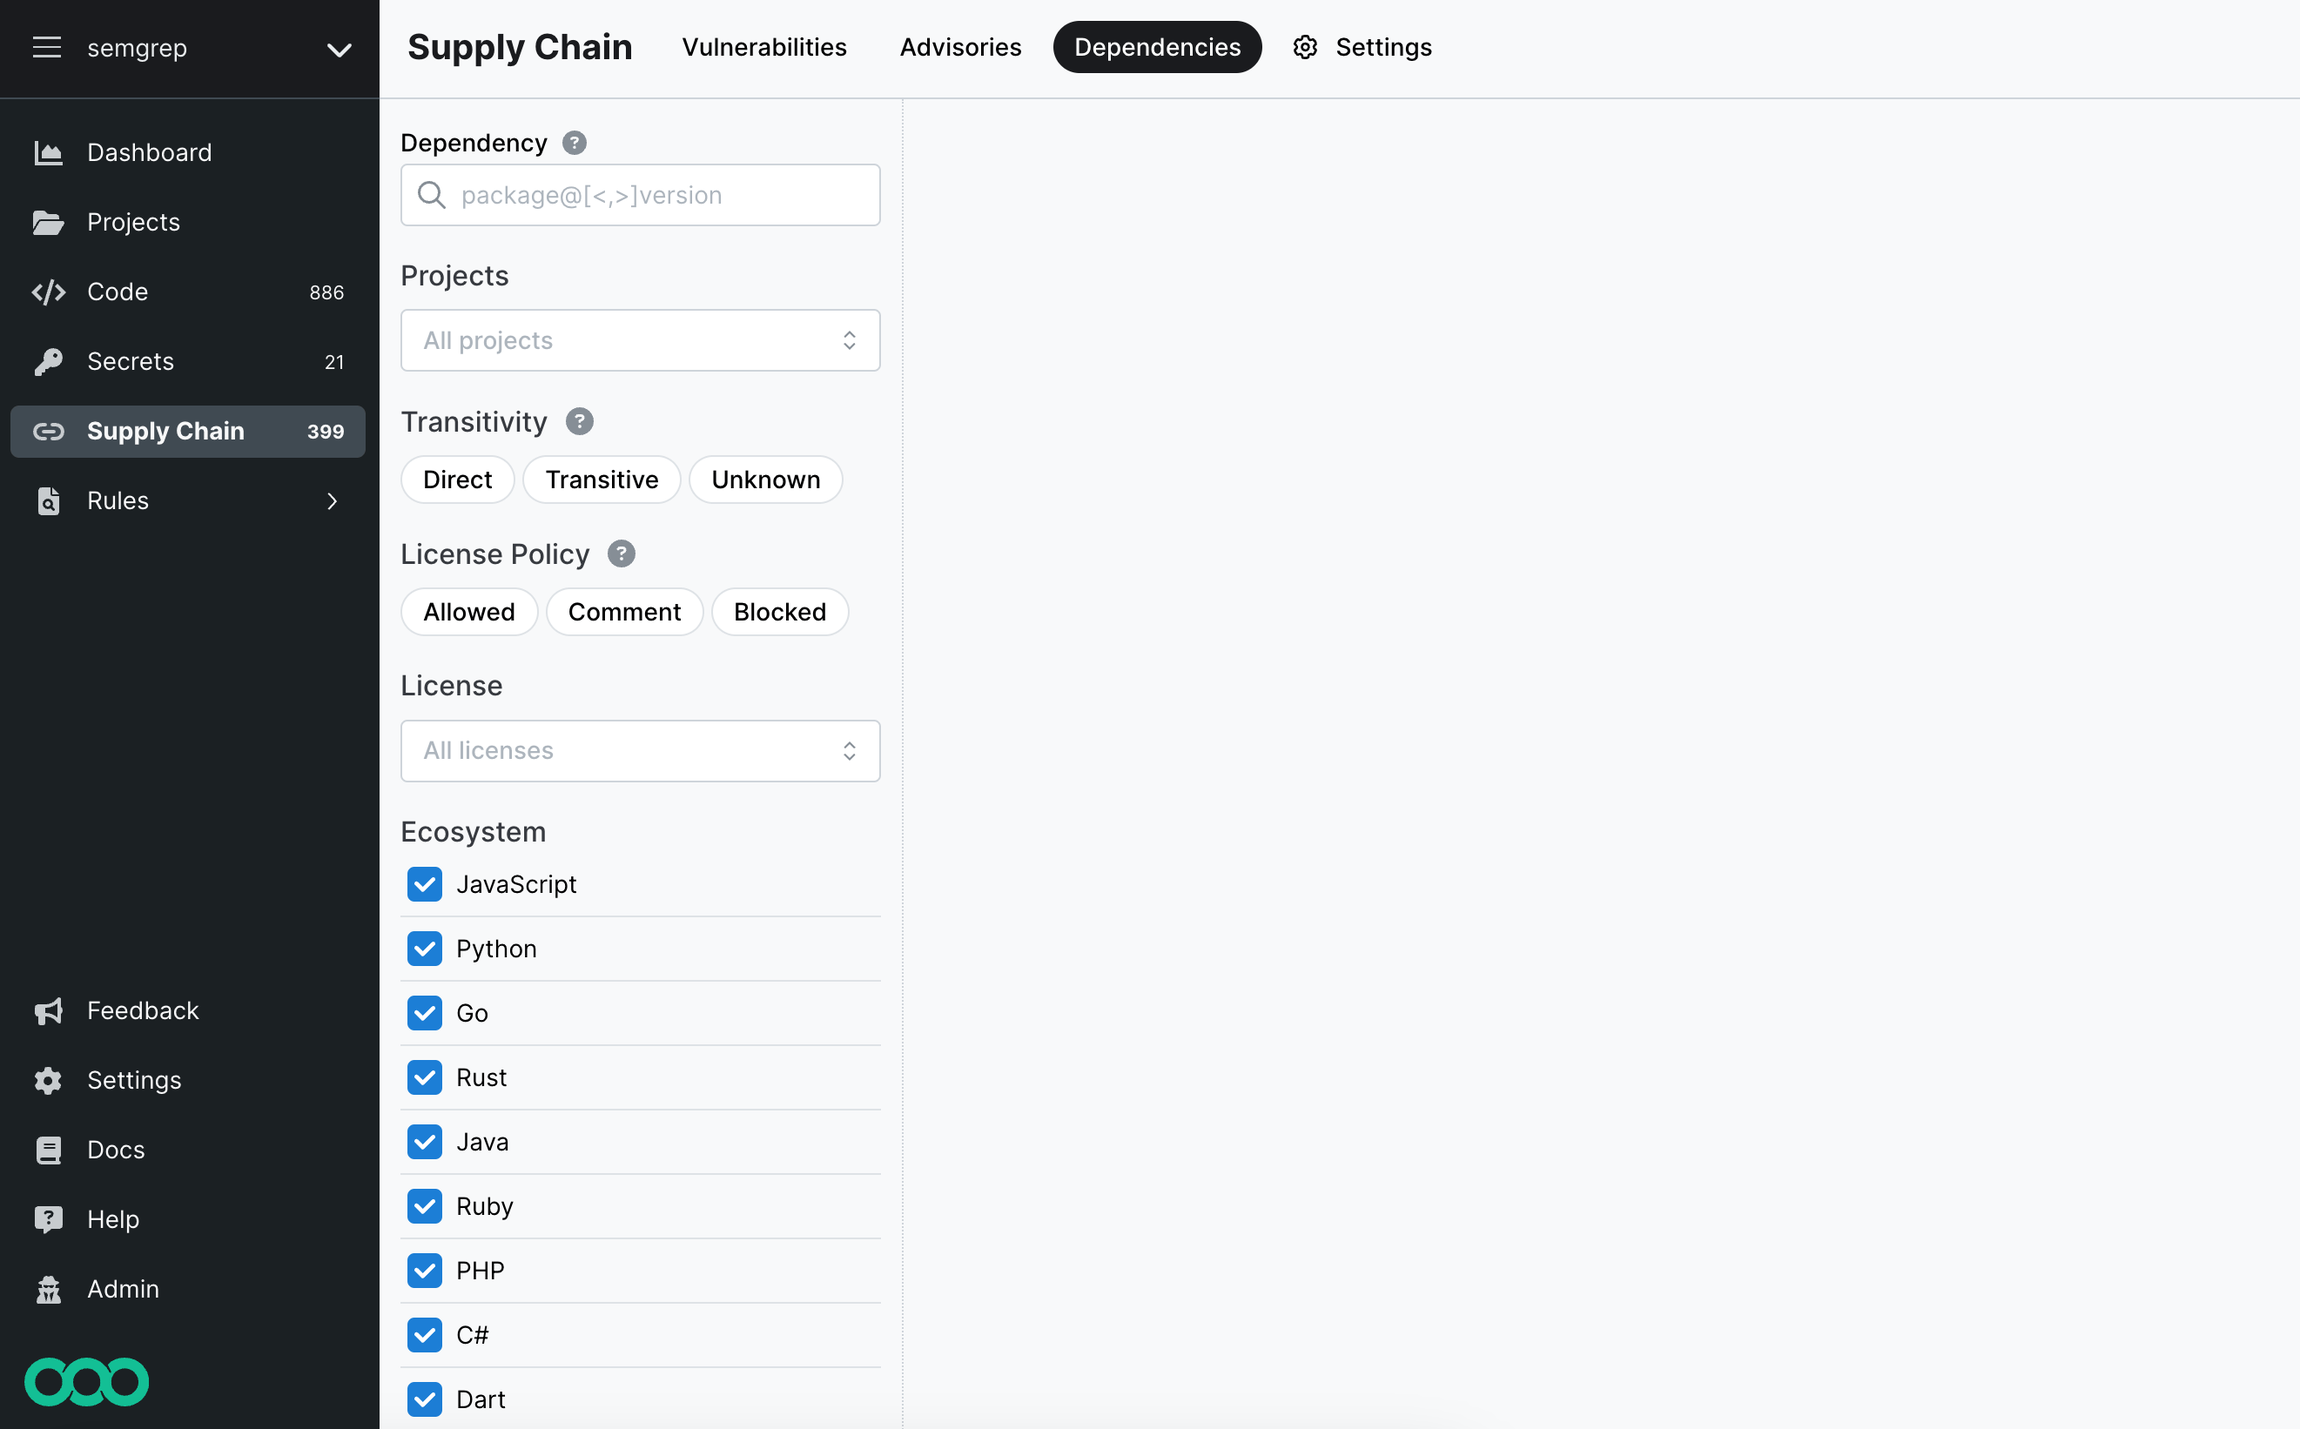
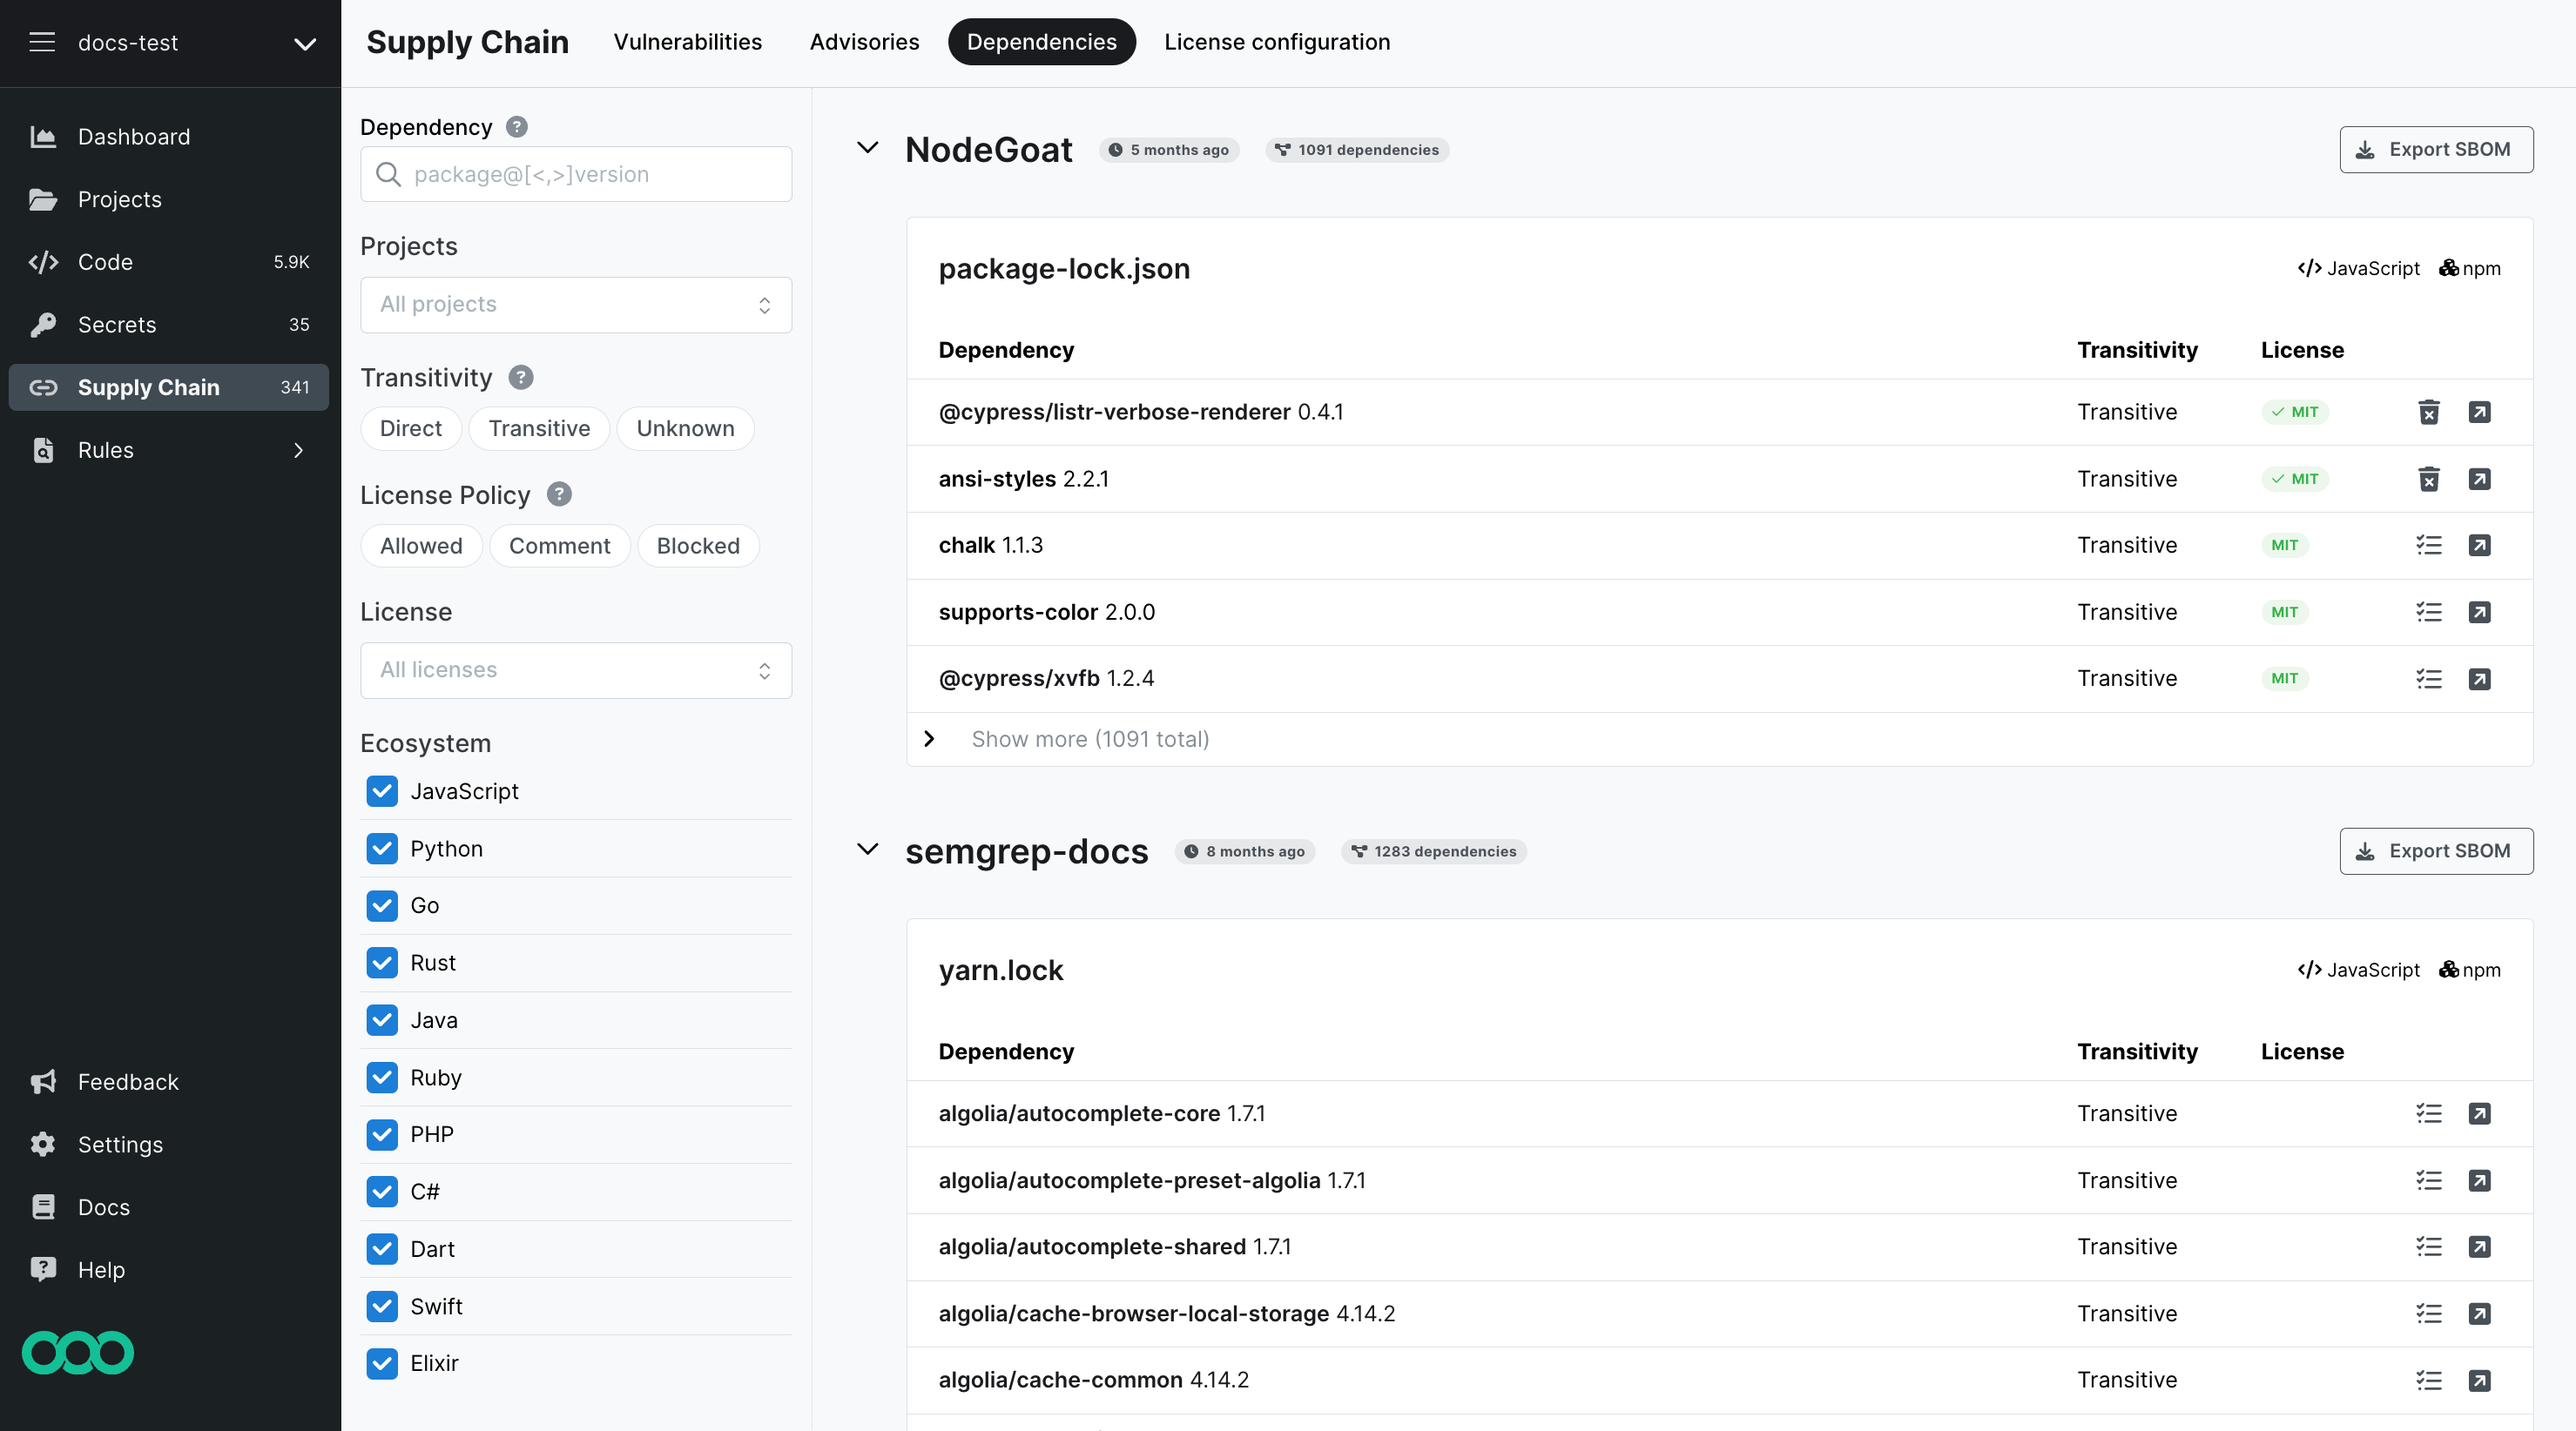
update SSC docs, part 2

diff --git a/docs/semgrep-supply-chain/dependency-search.md b/docs/semgrep-supply-chain/dependency-search.md
@@ -32,7 +32,7 @@ To search through your dependencies:
   ![Semgrep Supply Chain Settings tab](/img/sc-settings.png#md-width) *Figure*. The Semgrep Supply Chain Settings tab.
 1. Click <i class="fa-solid fa-toggle-large-on"></i> **Dependency search** if it is not already enabled.
 2. Navigate to **Supply Chain > Dependencies**.
-  ![Semgrep Supply Chain Dependencies tab](/img/sc-dependencies.png#md-width) *Figure*. The Semgrep Supply Chain Dependencies tab.
+  ![Semgrep Supply Chain Dependencies tab](/img/SSC-DepSearch.png#md-width) *Figure*. The Semgrep Supply Chain Dependencies tab.
 1. Type the name of the dependency you are searching for.
 2. Optional: Apply filters as necessary for your search.
 
@@ -43,8 +43,10 @@ Search for ranges of supported versions with the `>` or `<` operators following 
 Dependency search provides the following filters, which correspond to the data points displayed by Semgrep about each dependency:
 
 <dl>
+<dt>Dependency</dt>
+<dd>The name and version of the dependency</dd>
 <dt>Projects</dt>
-<dd></dd>
+<dd>The projects where the dependency can be found.</dd>
 <dt>Transitivity</dt>
 <dd>The relationship of the dependency to your codebase. The relationship can be direct, indirect, or unknown.</dd>
 <dt>License Policy</dt>
